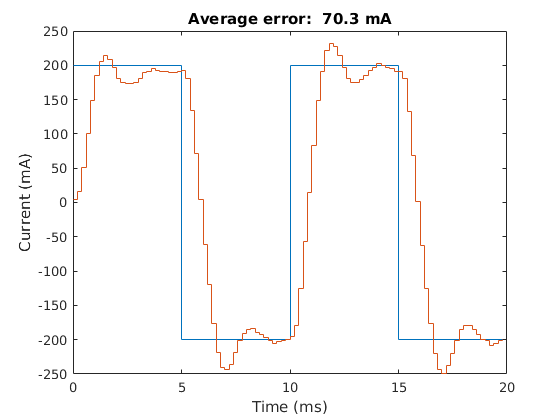
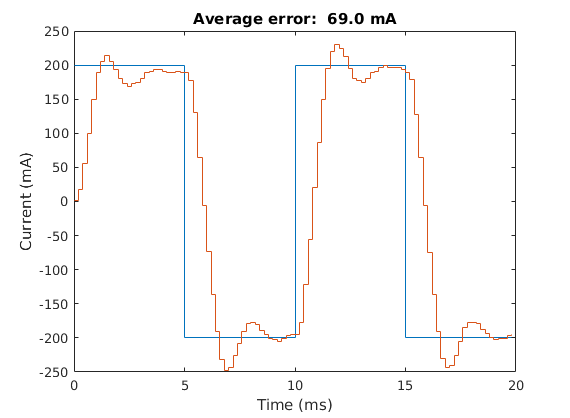
la bella!

diff --git a/main.c b/main.c
@@ -14,18 +14,18 @@
 //////////////////////
 // Global variables //
 //////////////////////
-static volatile int dutycycle = 0;                      // duty cycle [-100 to 100] for PWM
-static volatile int ang_target = 0;                     // target position (deg)
-static volatile int u_pos = 0;                          // position control signal (= current control ref)
-static volatile int SENarray[100];                      // array of measured I for ITEST
-static volatile int REFarray[100];                      // ref array for ITEST
-static volatile float KpI = 0.0, KiI = 0.0;             // current control gains
-static volatile float KpP = 0.0, KiP = 0.0, KdP = 0.0;  // position control gains
-static volatile int EIint = 0, EPint = 0;               // integral (sum) of control error
-static volatile int e_pos_prev = 0;                     // previous position error (for D control)
-static volatile int num_samples = 0;                    // # of samples in ref trajectory
-static volatile int REFtraj[MAXSAMPS];                  // ref trajectory for position control
-static volatile int SENtraj[MAXSAMPS];                  // measured trajectory for position control
+static volatile int dutycycle = 0;                          // duty cycle [-100 to 100] for PWM
+static volatile int ang_target = 0;                         // target position (deg)
+static volatile int u_pos = 0;                              // position control signal (= current control ref)
+static volatile int SENarray[100];                          // array of measured I for ITEST
+static volatile int REFarray[100];                          // ref array for ITEST
+static volatile float KpI = 0.75, KiI = 0.05;               // current control gains
+static volatile float KpP = 130.0, KiP = 0.0, KdP = 5000;   // position control gains
+static volatile int EIint = 0, EPint = 0;                   // integral (sum) of control error
+static volatile int e_pos_prev = 0;                         // previous position error (for D control)
+static volatile int num_samples = 0;                        // # of samples in ref trajectory
+static volatile int REFtraj[MAXSAMPS];                      // ref trajectory for position control
+static volatile int SENtraj[MAXSAMPS];                      // measured trajectory for position control
 
 ////////////////////////////////
 // Interrupt Service Routines //
@@ -40,7 +40,7 @@ void __ISR(_TIMER_2_VECTOR, IPL5SOFT) CurrentController(void){
     {
       EIint = 0;
       dutycycle = 0;
-      OC1RS = 0;   // 0 duty cycle => H-bridge in brake mode
+      OC1RS = 0;            // 0 duty cycle => H-bridge in brake mode
       break;
     }
 
@@ -74,6 +74,11 @@ void __ISR(_TIMER_2_VECTOR, IPL5SOFT) CurrentController(void){
       // PI current control signal:
       sensed_cur = read_cur_amps();
       e = ref - sensed_cur;
+
+      // if (EIint < 800){
+      //   EIint = EIint + e;
+      // }
+
       EIint = EIint + e;
       u = KpI*e + KiI*EIint;
       if (u < 0){
@@ -83,8 +88,8 @@ void __ISR(_TIMER_2_VECTOR, IPL5SOFT) CurrentController(void){
         LATDbits.LATD8 = 0;    // output = low => motor in forward
       }
       unew = abs(u);
-      if (unew > 100){unew = 100;}
       
+      if (unew > 100){unew = 100;}   
       OC1RS = unew * 40;
 
       // if (unew > 600){unew = 600;}
@@ -110,7 +115,8 @@ void __ISR(_TIMER_2_VECTOR, IPL5SOFT) CurrentController(void){
       e = u_pos - sensed_cur;
 
       EIint = EIint + e;
-      // if EIint < 1000{
+      
+      // if (EIint < 1000){
       //   EIint = EIint + e;
       // }
 
@@ -124,7 +130,7 @@ void __ISR(_TIMER_2_VECTOR, IPL5SOFT) CurrentController(void){
       unew = abs(u);
       if (unew > 100){unew = 100;}
       
-      OC1RS = (unsigned int)((unew/100.0)*PR3);
+      OC1RS = (unsigned int)(((float)(unew)/100.0)*PR3);
       break;
     }
 
@@ -135,6 +141,7 @@ void __ISR(_TIMER_2_VECTOR, IPL5SOFT) CurrentController(void){
       e = u_pos - sensed_cur;
 
       EIint = EIint + e;
+      
       // if EIint < 1000{
       //   EIint = EIint + e;
       // }
@@ -149,7 +156,7 @@ void __ISR(_TIMER_2_VECTOR, IPL5SOFT) CurrentController(void){
       unew = abs(u);
       if (unew > 100){unew = 100;}
       
-      OC1RS = (unsigned int)((unew/100.0)*PR3);
+      OC1RS = (unsigned int)(((float)(unew)/100.0)*PR3);
       break;
     }
 
@@ -193,8 +200,8 @@ void __ISR(_TIMER_4_VECTOR, IPL7SOFT) PositionController(void){
 
       // position control signal:
       u_pos_proto = KpP*e_pos + KiP*EPint + KdP*(e_pos - e_pos_prev);
-      if (u_pos_proto > 600){u_pos = 600;}
-      else if (u_pos_proto < -600){u_pos = -600;}
+      if (u_pos_proto > 300){u_pos = 300;}
+      else if (u_pos_proto < -300){u_pos = -300;}
       else u_pos = u_pos_proto;
       e_pos_prev = e_pos;
       break;
@@ -209,8 +216,8 @@ void __ISR(_TIMER_4_VECTOR, IPL7SOFT) PositionController(void){
 
       // position control signal:
       u_pos_proto = KpP*e_pos + KiP*EPint + KdP*(e_pos - e_pos_prev);
-      if (u_pos_proto > 600){u_pos = 600;}
-      else if (u_pos_proto < -600){u_pos = -600;}
+      if (u_pos_proto > 300){u_pos = 300;}
+      else if (u_pos_proto < -300){u_pos = -300;}
       else u_pos = u_pos_proto;
       e_pos_prev = e_pos;
 
@@ -242,8 +249,8 @@ void __ISR(_TIMER_4_VECTOR, IPL7SOFT) PositionController(void){
 int main() 
 {
   char buffer[BUF_SIZE];
-  NU32_Startup(); // cache on, min flash wait, interrupts on, LED/button init, UART init
-  NU32_LED1 = 1;  // turn off the LEDs
+  NU32_Startup();         // cache on, min flash wait, interrupts on, LED/button init, UART init
+  NU32_LED1 = 1;          // turn off the LEDs
   NU32_LED2 = 1;        
   __builtin_disable_interrupts();
   encoder_init();         // initialize SPI4 for encoder
@@ -279,7 +286,7 @@ int main()
       case 'c':                      // read encoder (counts)
       {
         sprintf(buffer, "%d\r\n", encoder_counts());
-        NU32_WriteUART3(buffer); // send encoder count to client
+        NU32_WriteUART3(buffer);
         break;
       }
 
@@ -431,7 +438,7 @@ int main()
         while (get_mode()==TRACK){;}
 
         // Send plot data to MATLAB:
-        __builtin_disable_interrupts();       
+        // __builtin_disable_interrupts();       
         sprintf(buffer, "%d\r\n", num_samples);
         NU32_WriteUART3(buffer);
         int i = 0;
@@ -439,7 +446,7 @@ int main()
           sprintf(buffer, "%d %d\r\n", REFtraj[i], SENtraj[i]);
           NU32_WriteUART3(buffer);
         }
-        __builtin_enable_interrupts();
+        // __builtin_enable_interrupts();
         break;
       }
 

diff --git a/client.m b/client.m
@@ -51,25 +51,31 @@ while ~has_quit
     
     % take the appropriate action
     switch selection
+        % READ CURRENT SENSOR (ADC COUNTS): 
         case 'a'                         
             n = fscanf(mySerial,'%d');
-            fprintf('The motor current is %d ADC counts\n',n);
+            fprintf('\nThe motor current is %d ADC counts\n',n);
         
+        % READ CURRENT SENSOR (mA): 
         case 'b'                         
             n = fscanf(mySerial,'%d');
-            fprintf('The motor current is %d mA\n',n);
+            fprintf('\nThe motor current is %d mA\n',n);
 
+        % READ ENCODER (COUNTS): 
         case 'c'                         
             n = fscanf(mySerial,'%d');  
-            fprintf('The motor angle is %d counts\n',n); 
-            
+            fprintf('\nThe motor angle is %d counts\n',n); 
+           
+        % READ ENCODER (DEGS): 
         case 'd'                         
             n = fscanf(mySerial,'%d');   
-            fprintf('The motor angle is %d degrees\n',n);
-            
+            fprintf('\nThe motor angle is %d degrees\n',n);
+        
+        % RESET ENCODER COUNTS:  
         case 'e'                         
-            fprintf('The motor angle has been reset\n');  
+            fprintf('\nThe motor angle has been reset\n');  
 
+        % SET PWM:
         case 'f'
             % read the user's desired duty cycle value:                      
             duty = input('\nWhat PWM value would you like [-100 to 100]? ');           
@@ -102,9 +108,9 @@ while ~has_quit
 
         % SET POSITION GAINS:
         case 'i'                         
-            Kp_pos = input('\nEnter your desired Kp position gain [recommended: 0.75]: ');
-            Ki_pos = input('\nEnter your desired Ki position gain [recommended: 0.05]: ');
-            Kd_pos = input('\nEnter your desired Kd position gain [recommended: 90]: ');
+            Kp_pos = input('\nEnter your desired Kp position gain [recommended: 130]: ');
+            Ki_pos = input('\nEnter your desired Ki position gain [recommended: 0]: ');
+            Kd_pos = input('\nEnter your desired Kd position gain [recommended: 5000]: ');
             fprintf(mySerial, '%f %f %f\n',[Kp_pos, Ki_pos, Kd_pos]);
             fprintf('\nSending Kp = %.2f, Ki = %.2f, and Kd = %.2f to the current controller.\n',Kp_pos,Ki_pos,Kd_pos);
 

diff --git a/positioncontrol.c b/positioncontrol.c
@@ -8,6 +8,5 @@ void positioncontrol_init(void){
   IPC4bits.T4IP = 7;       // priority for Timer4 interrupt
   IFS0bits.T4IF = 0;       // clear Timer4 interrupt flag
   IEC0bits.T4IE = 1;       // enable Timer4 interrupt
-  T4CONbits.ON = 1;        // turn on Timer4
-     
+  T4CONbits.ON = 1;        // turn on Timer4    
 }

diff --git a/genRef.m b/genRef.m
@@ -66,6 +66,7 @@ if strcmp(method,'cubic')  % calculate a cubic interpolation trajectory
       ref(refCtr) = a0 + a1*tseg + a2*tseg^2 + a3*tseg^3;  % add an element to ref array
       refCtr = refCtr + 1;
     end
+    ref = round(ref);
   end
 
 else  % default is step trajectory
